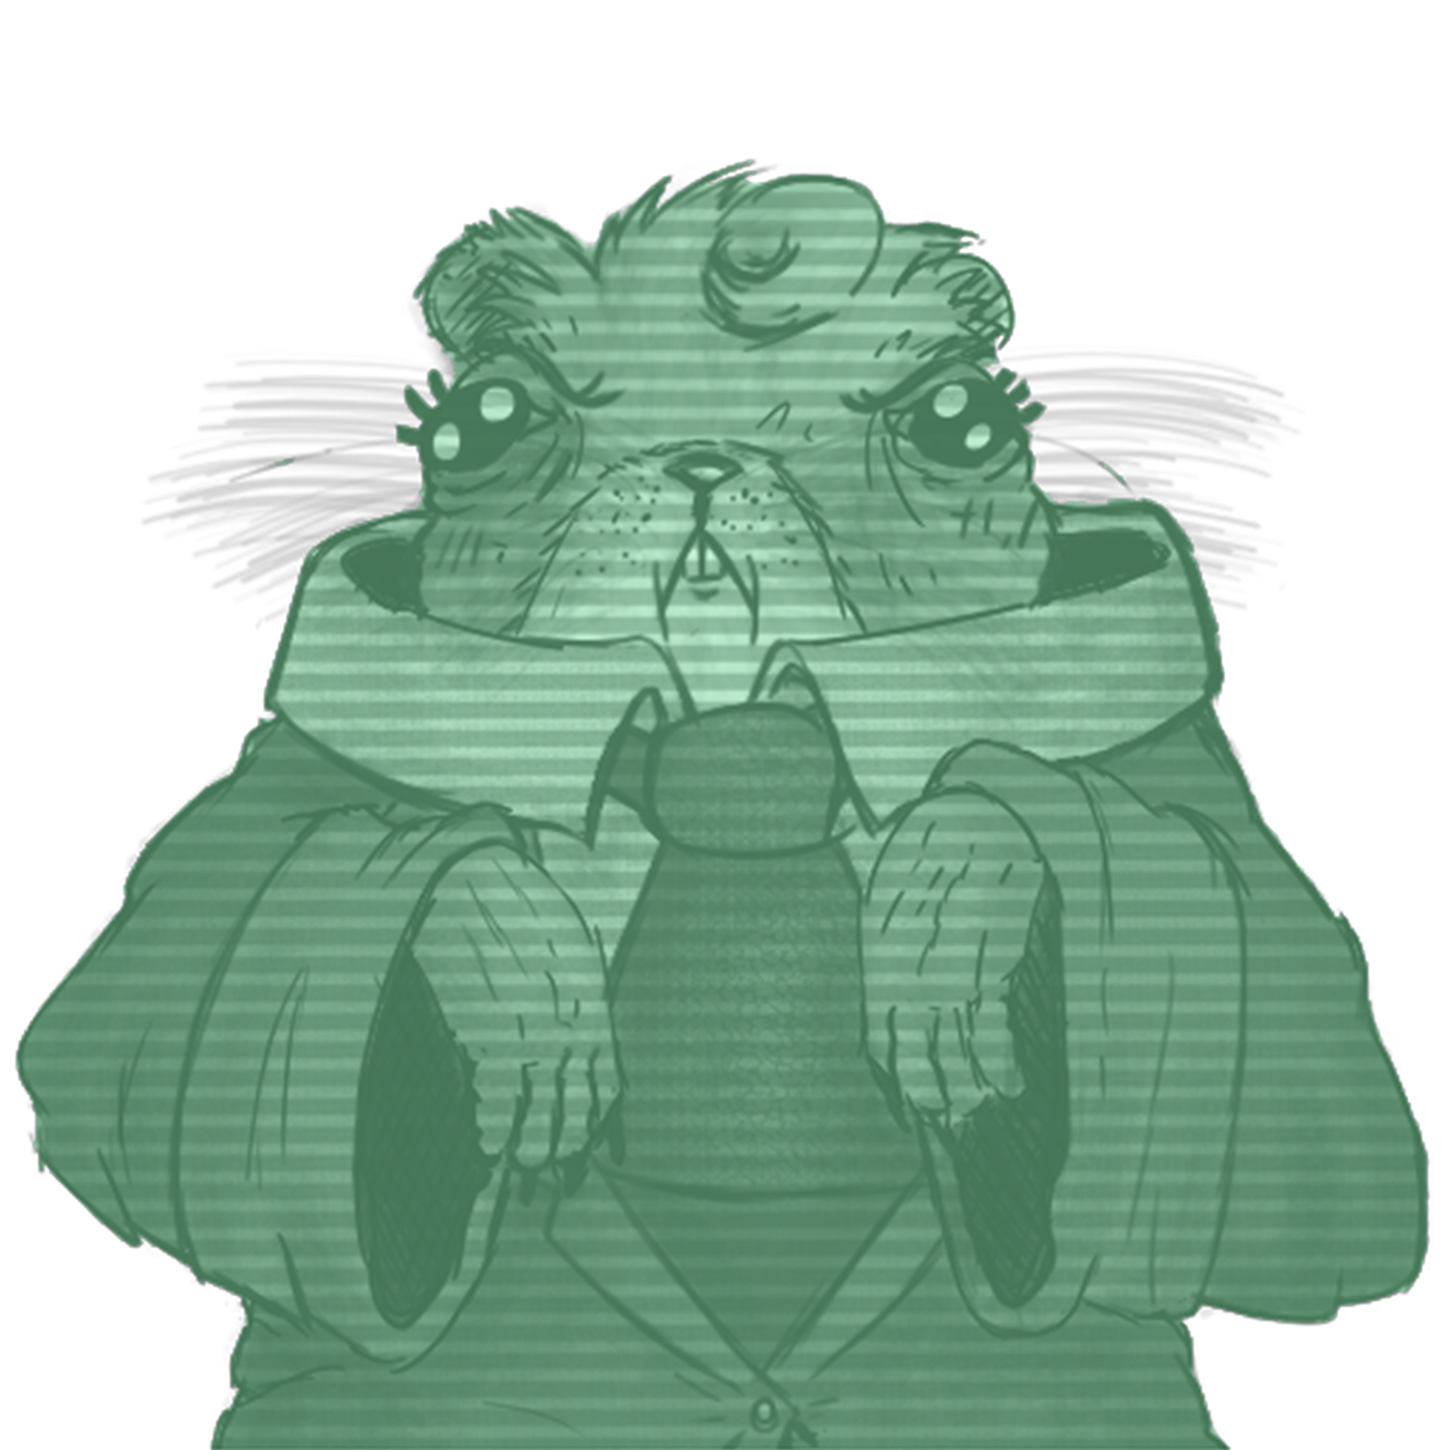
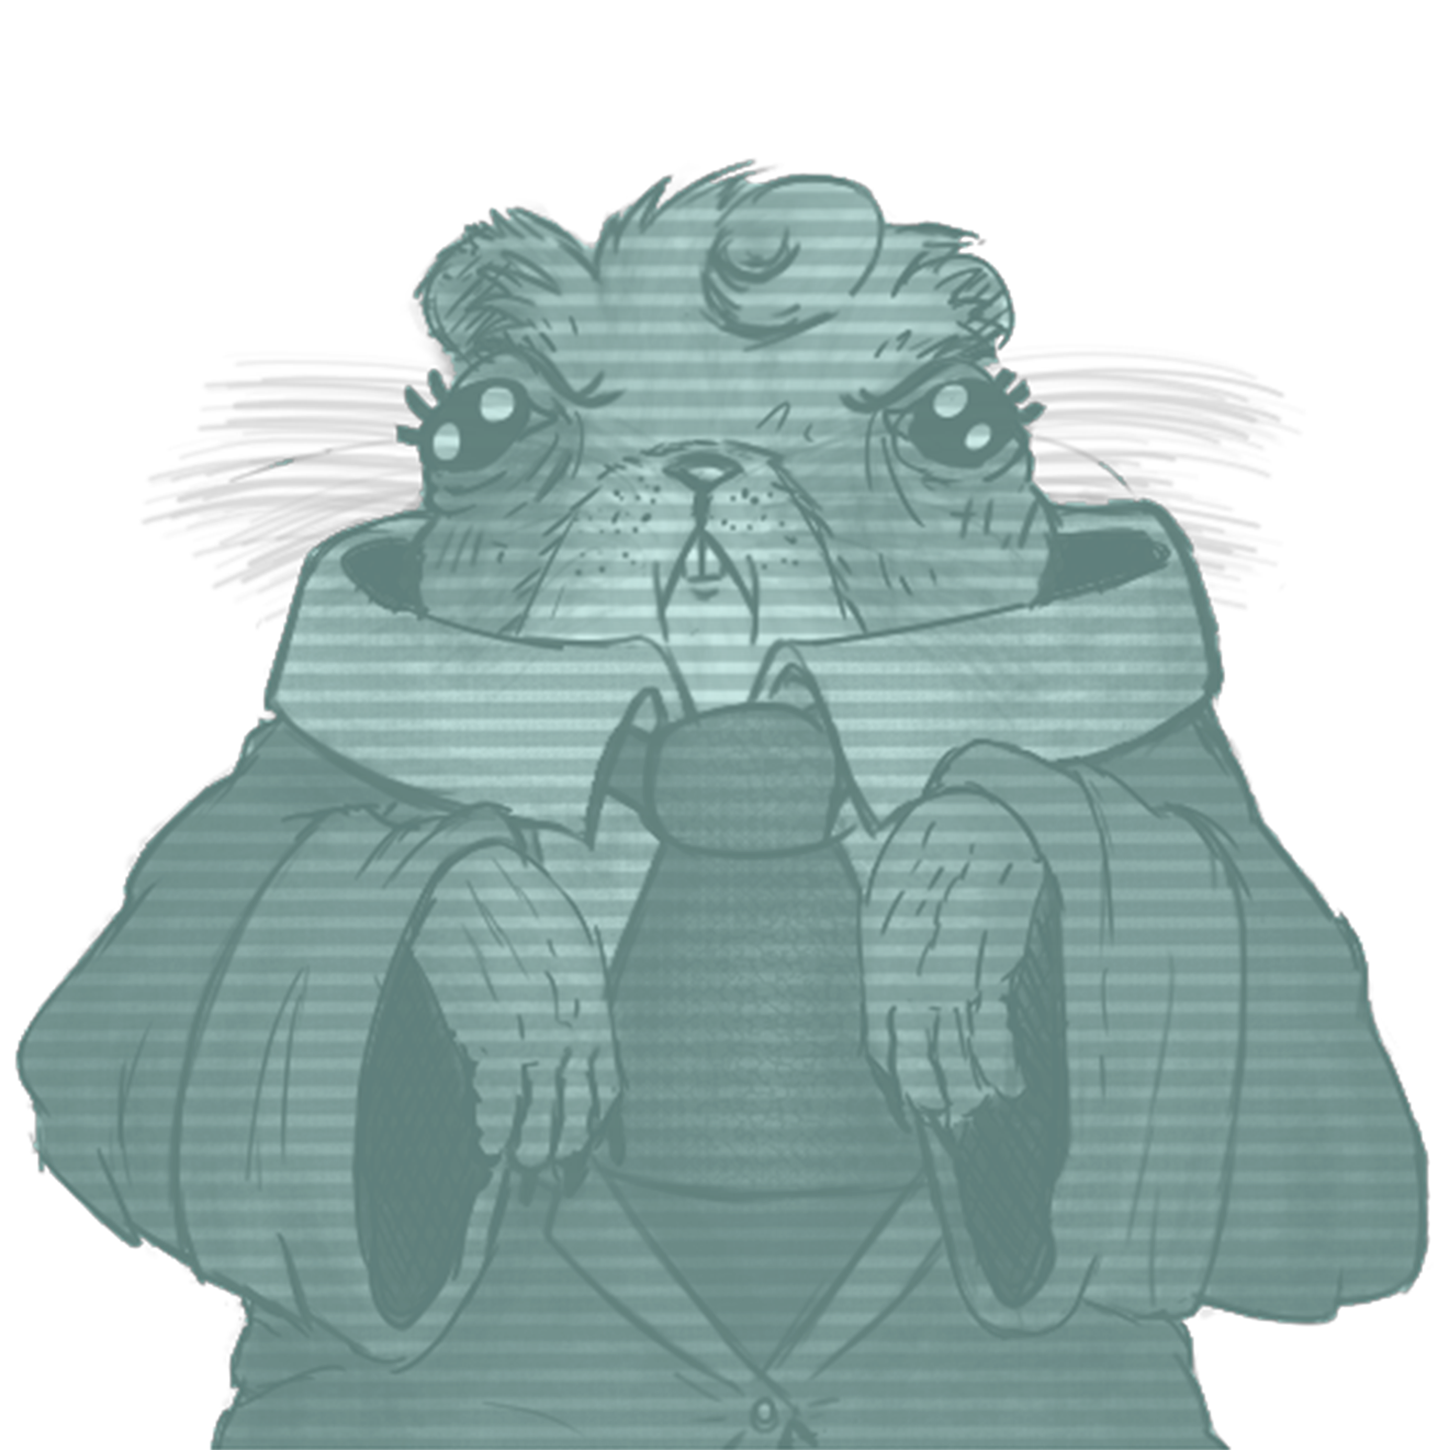
ajustes de color del minijefe

diff --git a/CSS/landing_styles.css b/CSS/landing_styles.css
@@ -26,7 +26,7 @@ body::before {
   pointer-events: none;
   background: radial-gradient(
     circle,
-    rgba(52, 86, 39, 0.352) 30%,   /* centro más pequeño */
+    rgba(39, 82, 86, 0.352) 30%,   /* centro más pequeño */
     rgba(0, 0, 0, 0.8) 100% /* bordes bien oscuros */
   );
   z-index: 0;
@@ -98,14 +98,14 @@ body::before {
   z-index: 2;
     /* Efecto outline/glow verde */
   filter:
-    drop-shadow(0 0 5px #57975783)
-    drop-shadow(0 0 10px  #57975783)
-    drop-shadow(0 0 15px  #57975783);
+    drop-shadow(0 0 5px #9abeba75)
+    drop-shadow(0 0 10px  #9abeba75)
+    drop-shadow(0 0 15px  #9abeba75);
 }
 @keyframes glowVerde {
-  0% { filter: drop-shadow(0 0 5px  #57975783) drop-shadow(0 0 10px  #57975783); }
-  50% { filter: drop-shadow(0 0 8px  #57975783) drop-shadow(0 0 15px  #57975783); }
-  100% { filter: drop-shadow(0 0 5px  #57975783) drop-shadow(0 0 10px  #57975783); }
+  0% { filter: drop-shadow(0 0 5px  #9abeba75) drop-shadow(0 0 10px  #9abeba75); }
+  50% { filter: drop-shadow(0 0 8px  #9abeba75) drop-shadow(0 0 15px  #9abeba75); }
+  100% { filter: drop-shadow(0 0 5px  #9abeba75) drop-shadow(0 0 10px  #9abeba75); }
 }
 
 #personaje {
